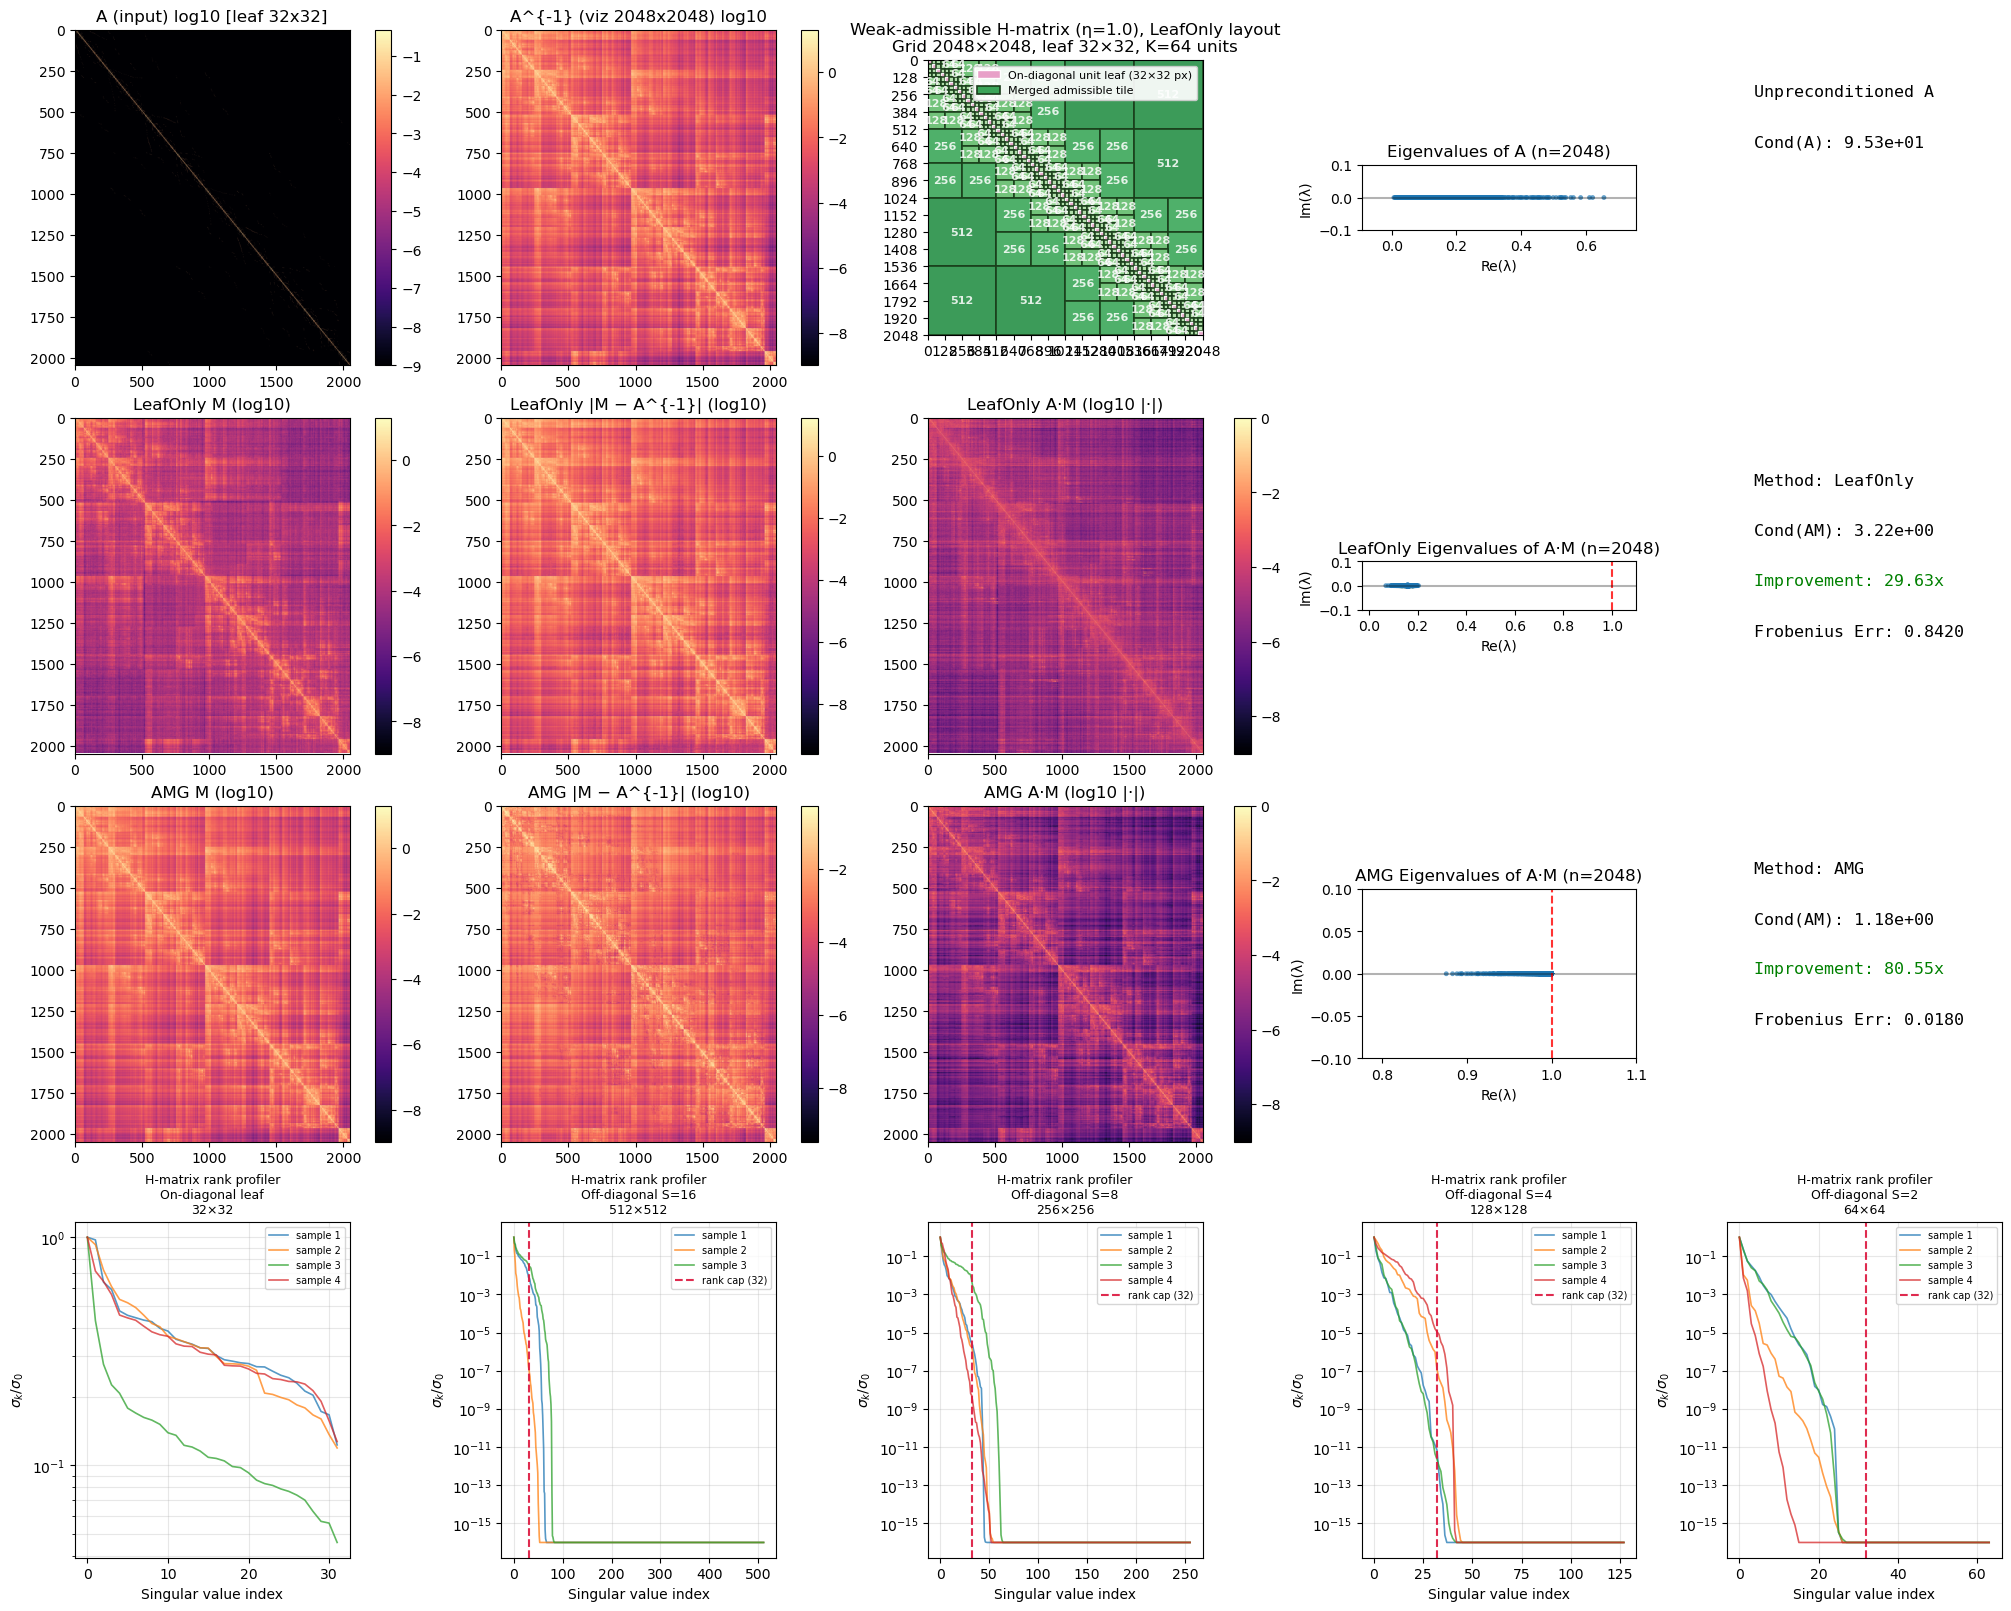
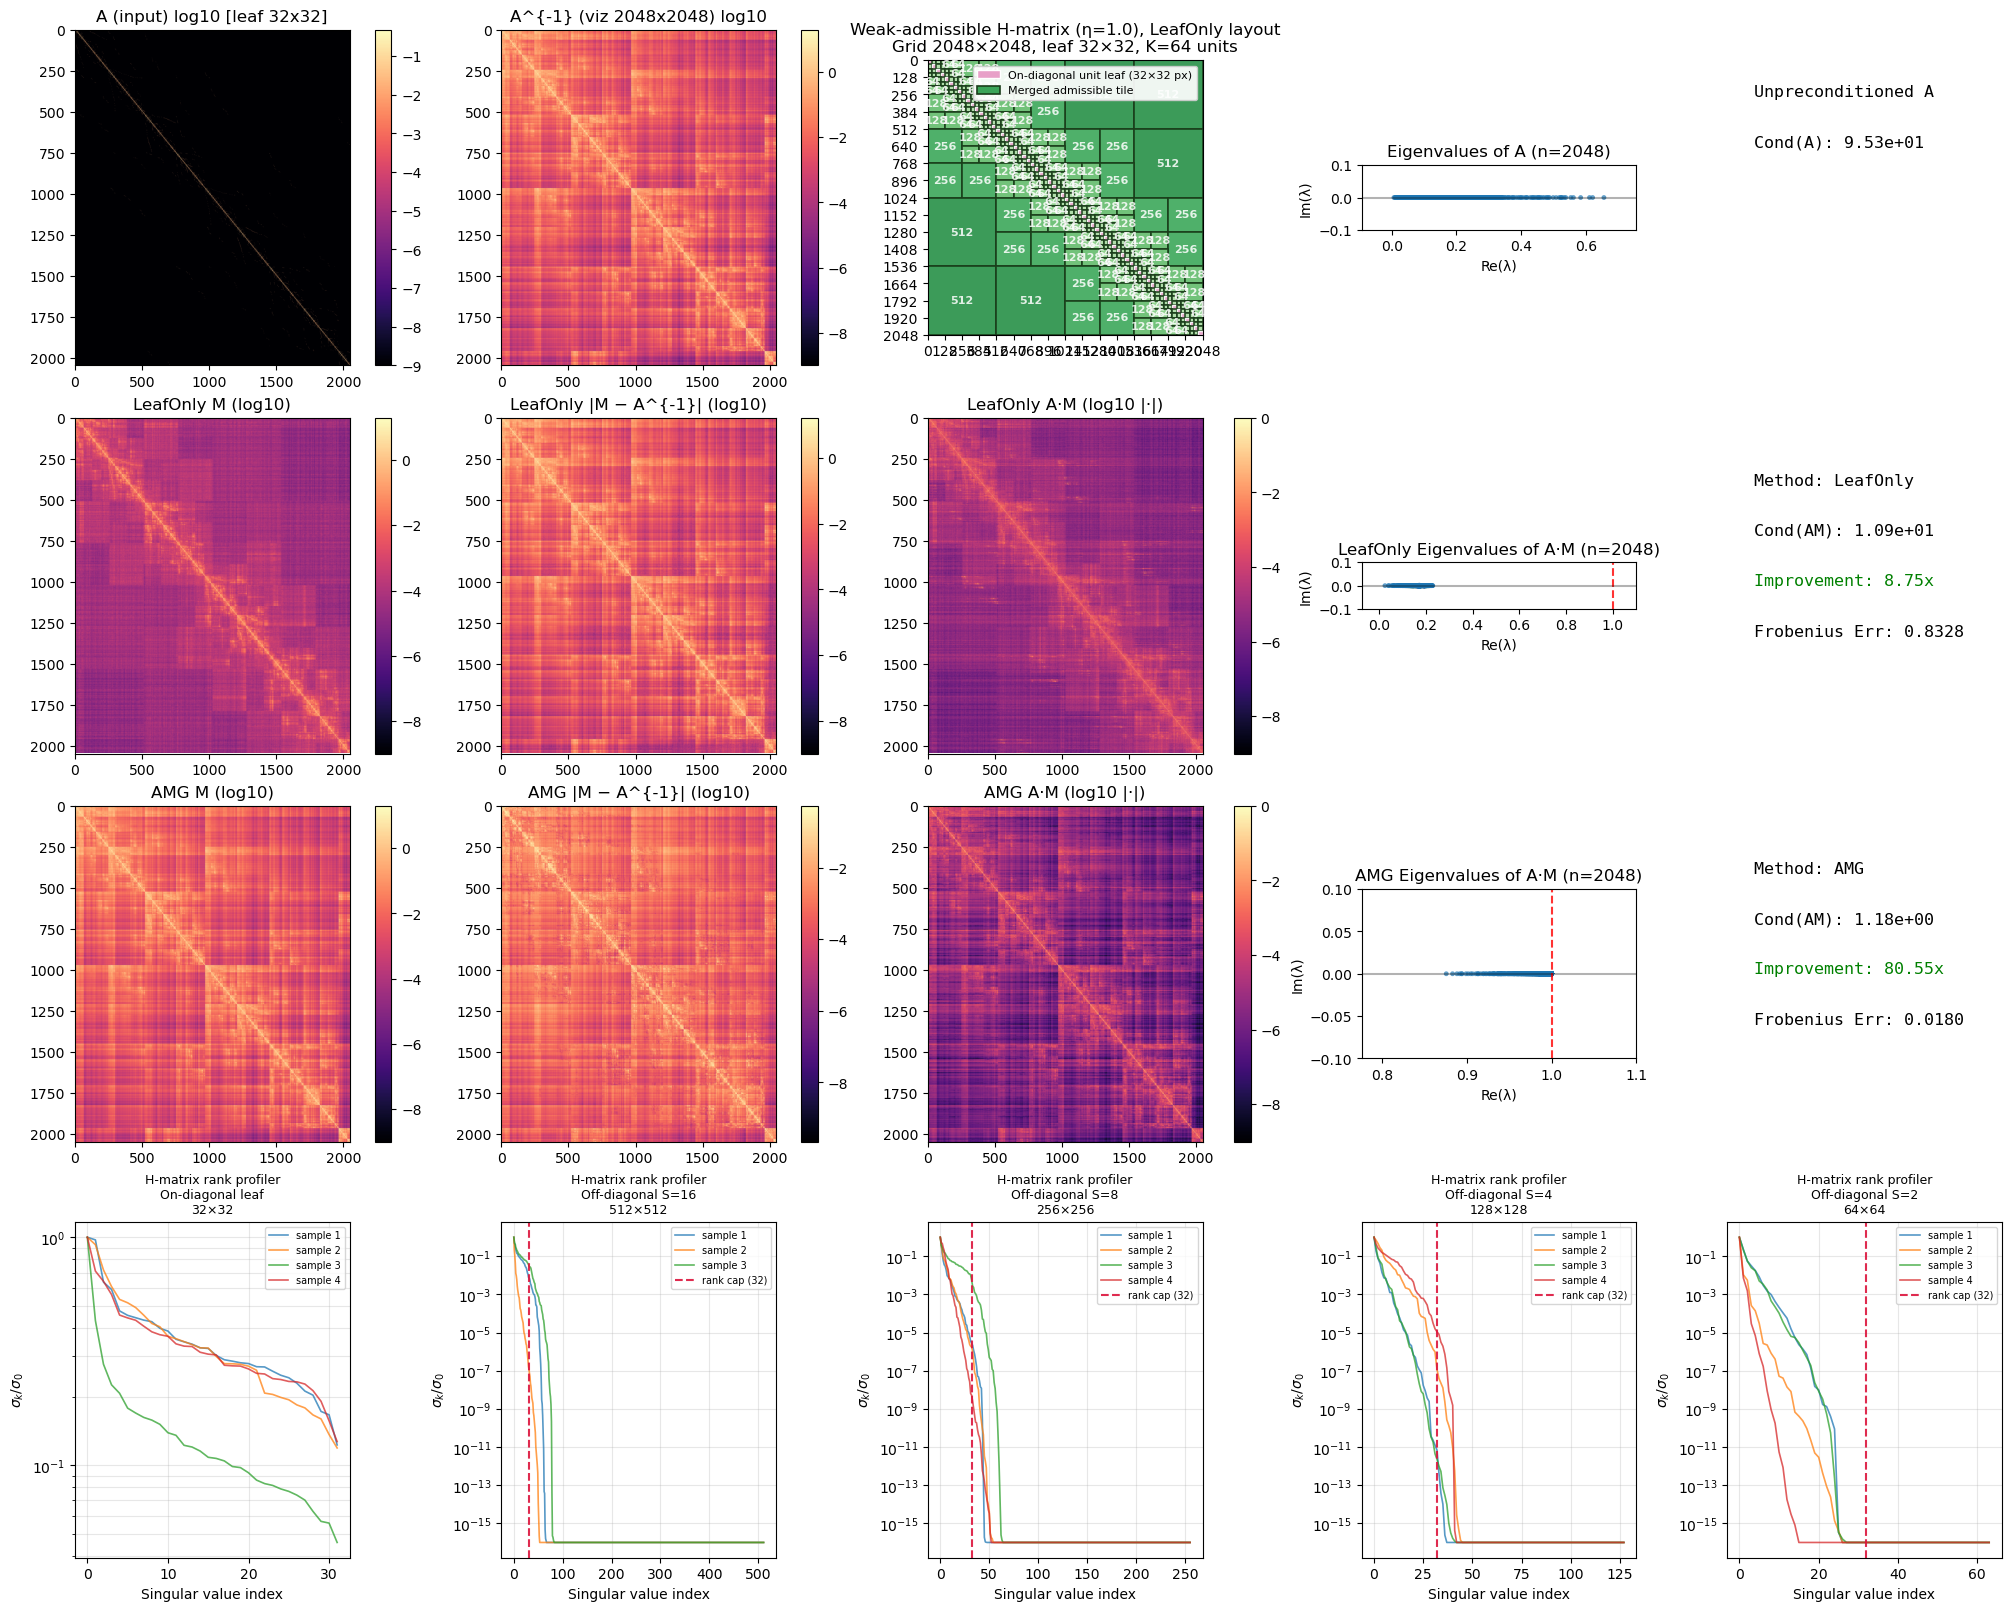
fixed inspect model

diff --git a/Assets/Scripts/leafonly/config.py b/Assets/Scripts/leafonly/config.py
@@ -10,9 +10,9 @@ def _validate_leaf_size(L: int) -> int:
     return L
 
 
-# Set to any power of 2; training checkpoints store this in the header — match when loading.
-# H-matrix static buffers use MAX_NUM_LEAVES = MAX_MIXED_SIZE // LEAF_SIZE; wrong LEAF_SIZE breaks apply vs checkpoint.
-LEAF_SIZE = _validate_leaf_size(128)
+# Power of 2; must match ``leaf_size`` in leaf_only_weights header (``read_leaf_only_header``).
+# Padded graph size is MAX_MIXED_SIZE; leaf count is MAX_NUM_LEAVES = MAX_MIXED_SIZE // LEAF_SIZE (static H-grid).
+LEAF_SIZE = _validate_leaf_size(32)
 # Diagonal leaf attention + diagonal preconditioner blocks (no downsample when 1).
 ATTN_POOL_FACTOR_DIAG = 1
 # Off-diagonal pair attention + off blocks (2 ⇒ half resolution inside each 32-node chunk).
@@ -27,7 +27,8 @@ ATTN_POOL_FACTOR = ATTN_POOL_FACTOR_DIAG
 ATTENTION_HOPS = 1
 GLOBAL_FEATURES_DIM = 12
 
-# Padded problem size for LeafOnlyNet (static H-grid). Checkpoints and MAX_NUM_LEAVES follow this.
+# Padded problem size for LeafOnlyNet / training contexts / InspectModel (single source of truth).
+# MAX_NUM_LEAVES = MAX_MIXED_SIZE // LEAF_SIZE must match the checkpoint layout (same as at train time).
 MAX_MIXED_SIZE = 2048
 # Minimum **aligned** active nodes to keep a frame: n_active = ⌊min(num_nodes, MAX)/LEAF⌋·LEAF.
 # Must be ≤ your smallest frame's aligned count. Do not set this to MAX_MIXED_SIZE unless every frame has ≥ that many nodes.

diff --git a/Assets/Scripts/InspectModel.py b/Assets/Scripts/InspectModel.py
@@ -1046,21 +1046,20 @@ def main():
         leaf_apply_off_ckpt,
         _attention_layout_code,
     ) = read_leaf_only_header(leaf_only_weights_path)
-    if LEAF_SIZE != leaf_size_lo:
-        _info(
-            f"  Note: leafonly.config.LEAF_SIZE={LEAF_SIZE} != checkpoint leaf_size={leaf_size_lo}; "
-            "using checkpoint leaf size for padding and preconditioner layout."
+    if int(leaf_size_lo) != int(LEAF_SIZE):
+        raise ValueError(
+            f"Checkpoint leaf_size={leaf_size_lo} != leafonly.config.LEAF_SIZE={LEAF_SIZE}. "
+            "Set LEAF_SIZE in leafonly/config.py to match the weights header so MAX_MIXED_SIZE and MAX_NUM_LEAVES stay consistent."
         )
-    leaf_L = int(leaf_size_lo)
-
+    leaf_L = int(LEAF_SIZE)
+    n_pad = int(MAX_MIXED_SIZE)
     n_requested = (min(MAX_MIXED_SIZE, num_nodes_real) // leaf_L) * leaf_L
-    n_pad = MAX_MIXED_SIZE
     # Physical linear system for PCG / baselines / plots (no identity tail): leaf-aligned, ≤ MAX_MIXED_SIZE.
     viz_n = n_requested
     if n_requested < num_nodes_real:
         _info(
             f"  Leaf-aligned subgraph: {n_requested} nodes (frame has {num_nodes_real}; "
-            f"truncated to full {leaf_L}-node leaves); LeafOnly forward padded to {n_pad}"
+            f"truncated to full {leaf_L}-node leaves); LeafOnly forward padded to {n_pad} (MAX_MIXED_SIZE)"
         )
     elif n_pad > n_requested:
         _info(
